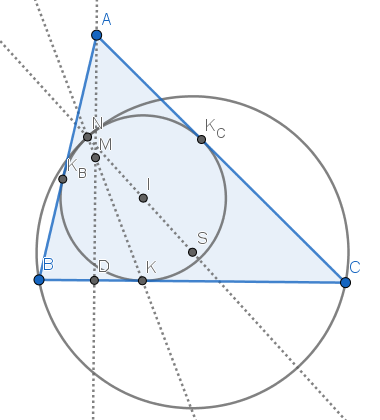
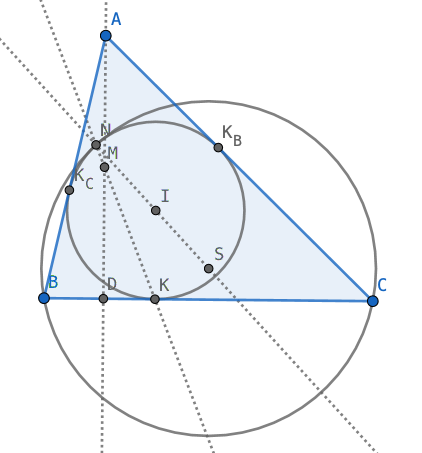
imo-2002-shortlist-g7 diagram fix

diff --git a/contest.md b/contest.md
@@ -2,13 +2,13 @@ Many contest geometry problems can be solved in analytic ways. Here are some exa
 
 ### A circle divided into 8 regions
 
-Let *K* be the point *K* in the interior of the unit circle. The circle is divided into 8 regions using four lines passing through *K* such that each two adjacent lines form an angle of 45°, as shown in the picture. Four of these regions are colored such that no two colored regions share more than one point. Prove that the area of the colored regions is exactly half the area of the circle. <sup>[1]</sup>
+> Let *K* be the point *K* in the interior of the unit circle. The circle is divided into 8 regions using four lines passing through *K* such that each two adjacent lines form an angle of 45°, as shown in the picture. Four of these regions are colored such that no two colored regions share more than one point. Prove that the area of the colored regions is exactly half the area of the circle. <sup>[1]</sup>
 
 <img src="diagrams/duke-putman-2012-6-8.gif">
 
 Areas can be calculated by integration. Cartesian coordinates may work but we need to divide this figures into too many pieces and calculate them one by one. Here we'd like to use polar coordinates.
 
-Put *K* onto origin and rotate the diameter through *K* (by an angle <img src="https://latex.codecogs.com/gif.latex?0\le%20\theta_0<\pi/4">) onto polar axis (x-axis), then the circle denoted in Cartesian coordinates <img src="https://latex.codecogs.com/gif.latex?(x-a)^2+y^2=r^2"> can be written in polar coordinates (just replace with <img src="https://latex.codecogs.com/gif.latex?x=\rho%20\cos\theta"> and <img src="https://latex.codecogs.com/gif.latex?y=\rho%20\sin\theta">):
+Put *K* onto origin and rotate the diameter through *K* (by an angle <img src="https://latex.codecogs.com/gif.latex?0\le%20\theta_0<\pi/4">) onto polar axis (x-axis), then the circle denoted in Cartesian coordinates <img src="https://latex.codecogs.com/gif.latex?(x-a)^2+y^2=r^2"> can be written in polar coordinates (just substitute by <img src="https://latex.codecogs.com/gif.latex?x=\rho%20\cos\theta"> and <img src="https://latex.codecogs.com/gif.latex?y=\rho%20\sin\theta">):
 
 <img src="https://latex.codecogs.com/gif.latex?\rho(\theta)=a\cos%20\theta\pm\sqrt{r^2-a^2\sin^2\theta}">
 
@@ -40,11 +40,36 @@ Most contest geometry problems are too complicated to solve by coordinate approa
 
 Although computational approaches are not allowed in math contest, there are a lot of fun in solutions. [Here](https://math.stackexchange.com/a/4257734/919440) is a complicated example solved by [Barycentric coordinates](https://en.wikipedia.org/wiki/Barycentric_coordinate_system). Next, we'd like to use Cartesian coordinates to solve the problem.
 
-The incircle Ω of the acute-angled triangle *ABC* is tangent to *BC* at *K*. Let *AD* be an altitude of triangle *ABC* and let *M* be the midpoint of *AD*. If *N* is the other common point of Ω and *KM*, prove that Ω and the circumcircle of triangle *BCN* are tangent at *N*. <sup>[2]</sup>
+> The incircle Ω of the acute-angled triangle *ABC* is tangent to *BC* at *K*. Let *AD* be an altitude of triangle *ABC* and let *M* be the midpoint of *AD*. If *N* is the other common point of Ω and *KM*, prove that Ω and the circumcircle of triangle *BCN* are tangent at *N*. <sup>[2]</sup>
 
 <img src="diagrams/imo-2002-shortlist-g7.png">
 
-[Here](pythagoras/imo-2002-shortlist-g7.py) is the proof process.
+We put *D* onto origin, *BC* onto x-axis and *AD* onto y-axis, then set coordinates as *A*(0,*a*), *B*(-*b*,0), *C*(0,*c*) and *M*(0,*a*/2), where *a*, *b* and *c* are positive numbers.
+
+We begin with point *K* which follows <img src="https://latex.codecogs.com/gif.latex?BK=(AB+BC-AC)/2">
+.
+
+Next, incenter *I*(*x*<sub>K</sub>,*r*), where *r* can be given by [Heron's formula](https://en.wikipedia.org/wiki/Incircle_and_excircles_of_a_triangle#Radius):
+
+<img src="https://latex.codecogs.com/gif.latex?r=\sqrt{\frac{s(s-AB)(s-AC)(s-BC)}s}">
+
+and <img src="https://latex.codecogs.com/gif.latex?s=(AB+AC+BC)/2">.
+
+However, *AB*, *AC* and *BC* should be represented by *a*, *b* and *c*:
+
+<img src="https://latex.codecogs.com/gif.latex?\begin{cases}AB=\sqrt{a^2+b^2}\\AC=\sqrt{a^2+c^2}\\BC=b+c\end{cases}">
+
+which put too many square roots in *r*, and may severely slow down further calculations.
+
+So we choose another way to solve point *I* by 3 tangent points of incircle *K*, *K*<sub>B</sub> and *K*<sub>C</sub>.
+
+Next, point *N*, one of the two intersections of incircle Ω and line *KM*, can be solved by Vieta's formula.
+
+Next, circumcenter *S* of triangle *BCN*.
+
+Finally, the incircle with center *I* and the circumcircle with center *S* are tangent at point *N* if and only if *INS* are collinear.
+
+[Here](pythagoras/imo-2002-shortlist-g7.py) is the proof process. We keep *AB* and *AC* not substituted until the last step to avoid square root calculations. At last, we use homogeneous coordinates to avoid fraction calculations, then substitute *AB* and *AC* to get the final result.
 
 ### Note
 

diff --git a/README.md b/README.md
@@ -11,7 +11,7 @@ These problems may have smart solutions with difficult skills. However, I'd like
 - [x] [Menelaus's theorem](menelaus.md) and Ceva's theorem by Homogeneous coordinates
 - [x] [Pascal's theorem](pascal.md), Brianchon's theorem and Braikenridge-Maclaurin theorem
 - [ ] [Euler Line](pythagoras/euler-line.py) and Feuerbach's theorem
-- [ ] [Contest geometry problems](contest.md)
+- [x] [Contest geometry problems](contest.md)
 
 Problems in *How to Solve It* by G. Pólya
 
